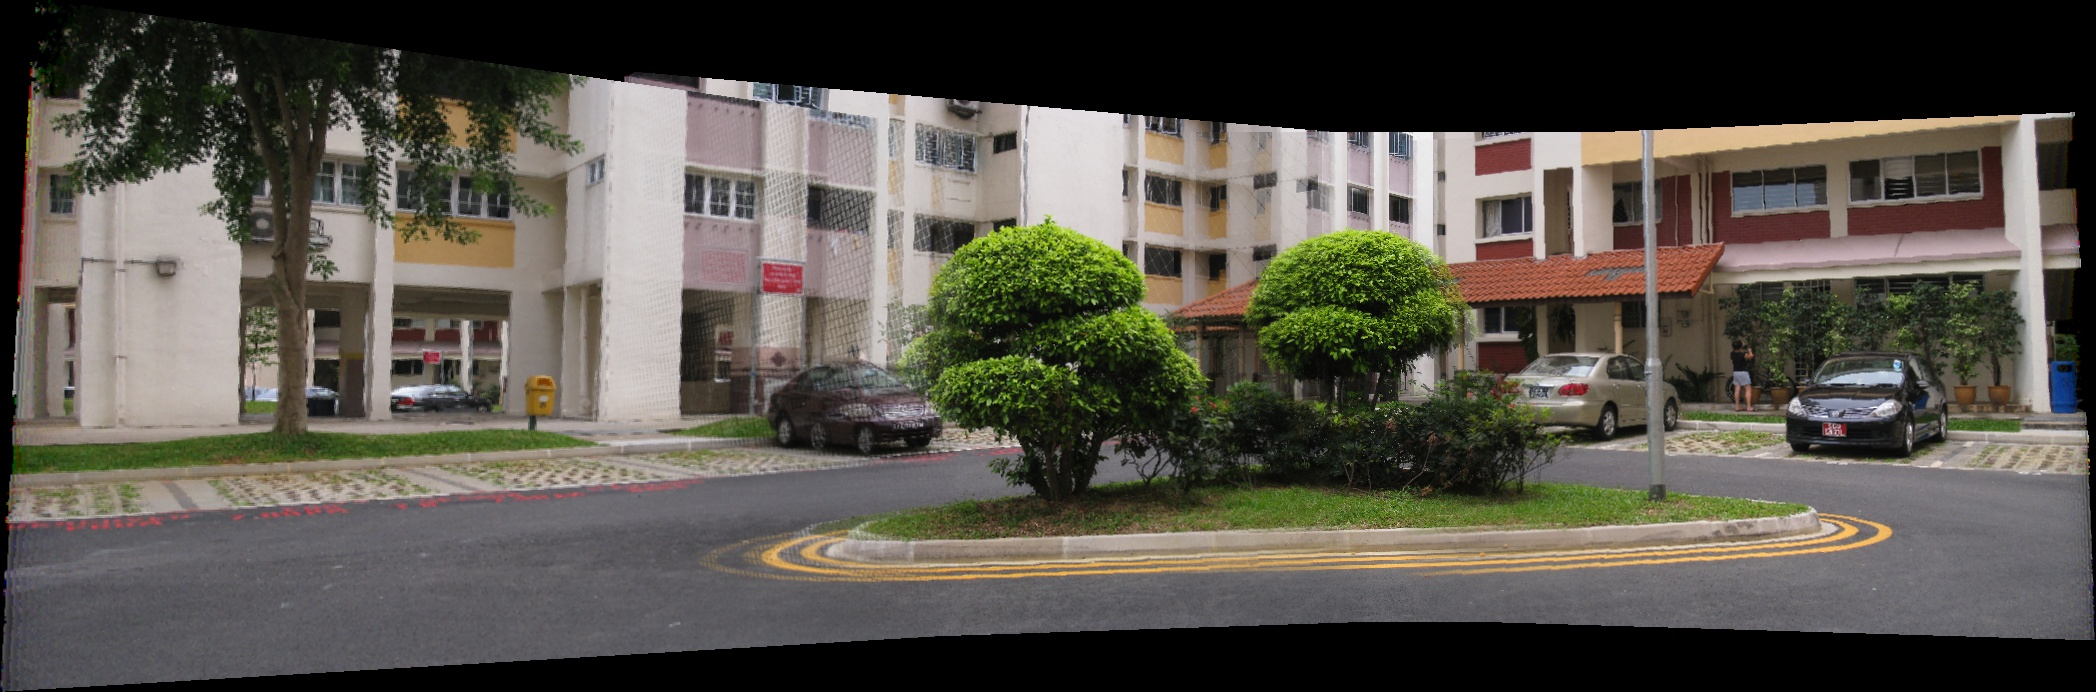
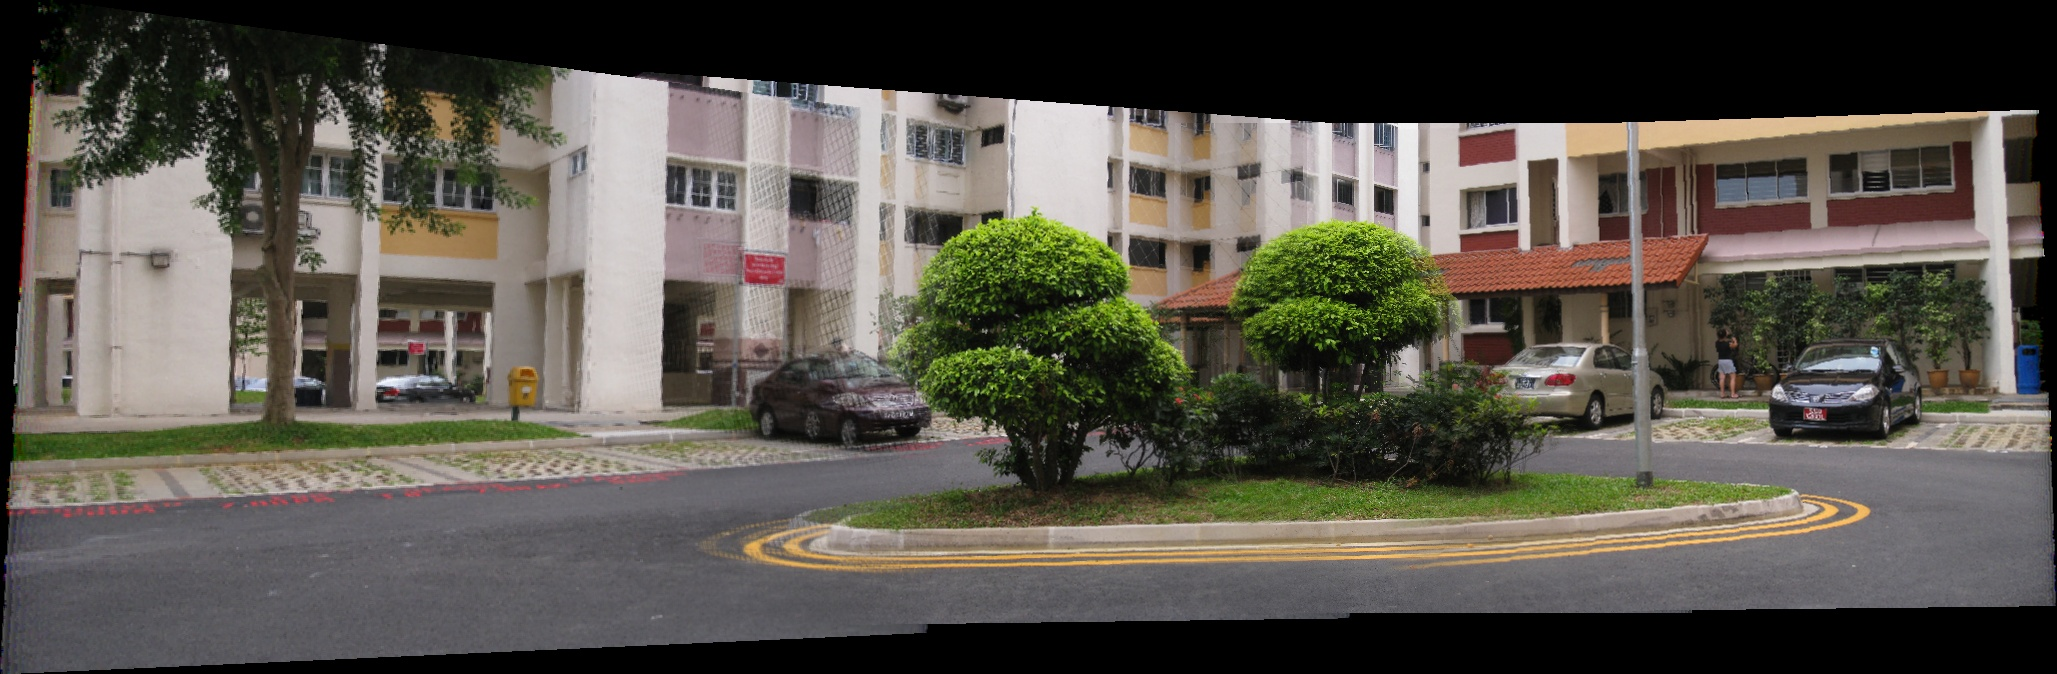
blended working unblended giving problems

diff --git a/A3/main1.py b/A3/main1.py
@@ -78,7 +78,7 @@ for pathI in paths:
         Hs.append(H)
         Ss.append(S)
     print('done homographies')
-    print(Hs)
+    print('HomoGraphies', Hs)
 
     ##########################################################
     #Wrapping the images together using H
@@ -88,8 +88,6 @@ for pathI in paths:
     # x,y
     offset = [[3000,1000]]
     canvas = createCanvas(images[imagesNames[0]], factor)
-    print('image.shape', images[imagesNames[0]].shape)
-    print('canvas.shape', canvas.shape)
 
     print('finding realtive homographies')
     Hss = {int(imageNos/2): np.eye(3)}
@@ -99,10 +97,27 @@ for pathI in paths:
         Hss[i] = np.matmul(Hs[i], Hss[i+1])
     print('done realtive homographies')
 
-    # print ('Hss', Hss)
-    # print ('Hs', Hs)
+    # drawing unblended
+    for i in range(0, imageNos):
+        print('drawing', imagesNames[i])
+        drawOnCanvas(canvas, images[imagesNames[i]], Hss[i], offset, abs(int(imageNos/2)-i)+1, weightDic=None)
+        print('drawn', imagesNames[i])
+    canvas = canvas.astype(np.uint8)
+    print ('stripping')
+    true_points = np.argwhere(canvas)
+    top_left = true_points.min(axis=0)
+    bottom_right = true_points.max(axis=0)
+    out = canvas[top_left[0]:bottom_right[0]+1,  # plus 1 because slice isn't
+                 top_left[1]:bottom_right[1]+1]  # inclusive
+    print('done stripping')
+    cv.imwrite("./result/"+pathI+"unblended.jpg", out)
+    # sys.exit()
 
-    # drawing
+    # drawing blended
+    factor = [int(imageNos*3), int(imageNos*5)]
+    # x,y
+    offset = [[3000,1000]]
+    canvas = createCanvas(images[imagesNames[0]], factor)
     weightDic = {}
     for i in range(0, imageNos):
         print('drawing', imagesNames[i])
@@ -112,20 +127,12 @@ for pathI in paths:
     # divide by weights at each pixel
     divideWeight(canvas, weightDic)
     canvas = canvas.astype(np.uint8)
-
-
-    # print (canvas)
-    # cv.imshow("Stitched Panorama", canvas)
-
     print ('stripping')
-    # argwhere will give you the coordinates of every non-zero point
     true_points = np.argwhere(canvas)
-    # take the smallest points and use them as the top left of your crop
     top_left = true_points.min(axis=0)
-    # take the largest points and use them as the bottom right of your crop
     bottom_right = true_points.max(axis=0)
     out = canvas[top_left[0]:bottom_right[0]+1,  # plus 1 because slice isn't
-              top_left[1]:bottom_right[1]+1]  # inclusive
+                 top_left[1]:bottom_right[1]+1]  # inclusive
     print('done stripping')
-    cv.imwrite("./result/"+pathI+"stitched.jpg", out)
+    cv.imwrite("./result/"+pathI+"blended.jpg", out)
 sys.exit()

diff --git a/A3/helper.py b/A3/helper.py
@@ -187,7 +187,6 @@ def drawOnCanvas(canvas, img, H, offset, fill, weightDic=None):
             else:
                 weight = (j+1)/((float(width)/2))
 
-            # print (weight)
             vctr = np.array([[j,i,1]]).T #col vctr
             vctr2 = np.matmul(H, vctr)
             vctr2 /= vctr2[2,0] #last coordinate to 1
@@ -200,7 +199,6 @@ def drawOnCanvas(canvas, img, H, offset, fill, weightDic=None):
             # if weightDic not provided don't do blending
             if weightDic != None: # if we have been provided weightDic
                 c = weight * np.full((fill, fill, 3), img[i,j])
-                # print ('i,j',i,j)
 
             else: # we have to do blending
                 c = np.full((fill, fill, 3), img[i,j])
@@ -208,23 +206,15 @@ def drawOnCanvas(canvas, img, H, offset, fill, weightDic=None):
             try:
                 canvas[y:y+fill, x:x+fill] += c.astype(np.uint16)# to reduce tearing
                 # adding weight as weightDic[col, row] if weightDic provided
-                if weightDic != None: # if we have been provided weightDic (not None)
-                    # print(weight)
+                if weightDic != None:
                     for l in range(fill):
                         for k in range(fill):
-                            # print('x,ys',(x+l,y+k))
                             try:
                                 weightDic[(x+l,y+k)] += weight
                             except KeyError:
                                 weightDic[(x+l,y+k)] = weight
-                    # print(weightDic)
-                    # sys.exit()
             except ValueError:
                 print('not able to print, x,y', x, y)
-            # if i == 0 and j == 0:
-            #     print (np.full((fill, fill, 3), img[i,j]))
-            #     print (np.full((fill, fill, 3), img[i,j]).shape)
-    # print('returned')
     return
 
 def divideWeight(canvas, weightDic):
